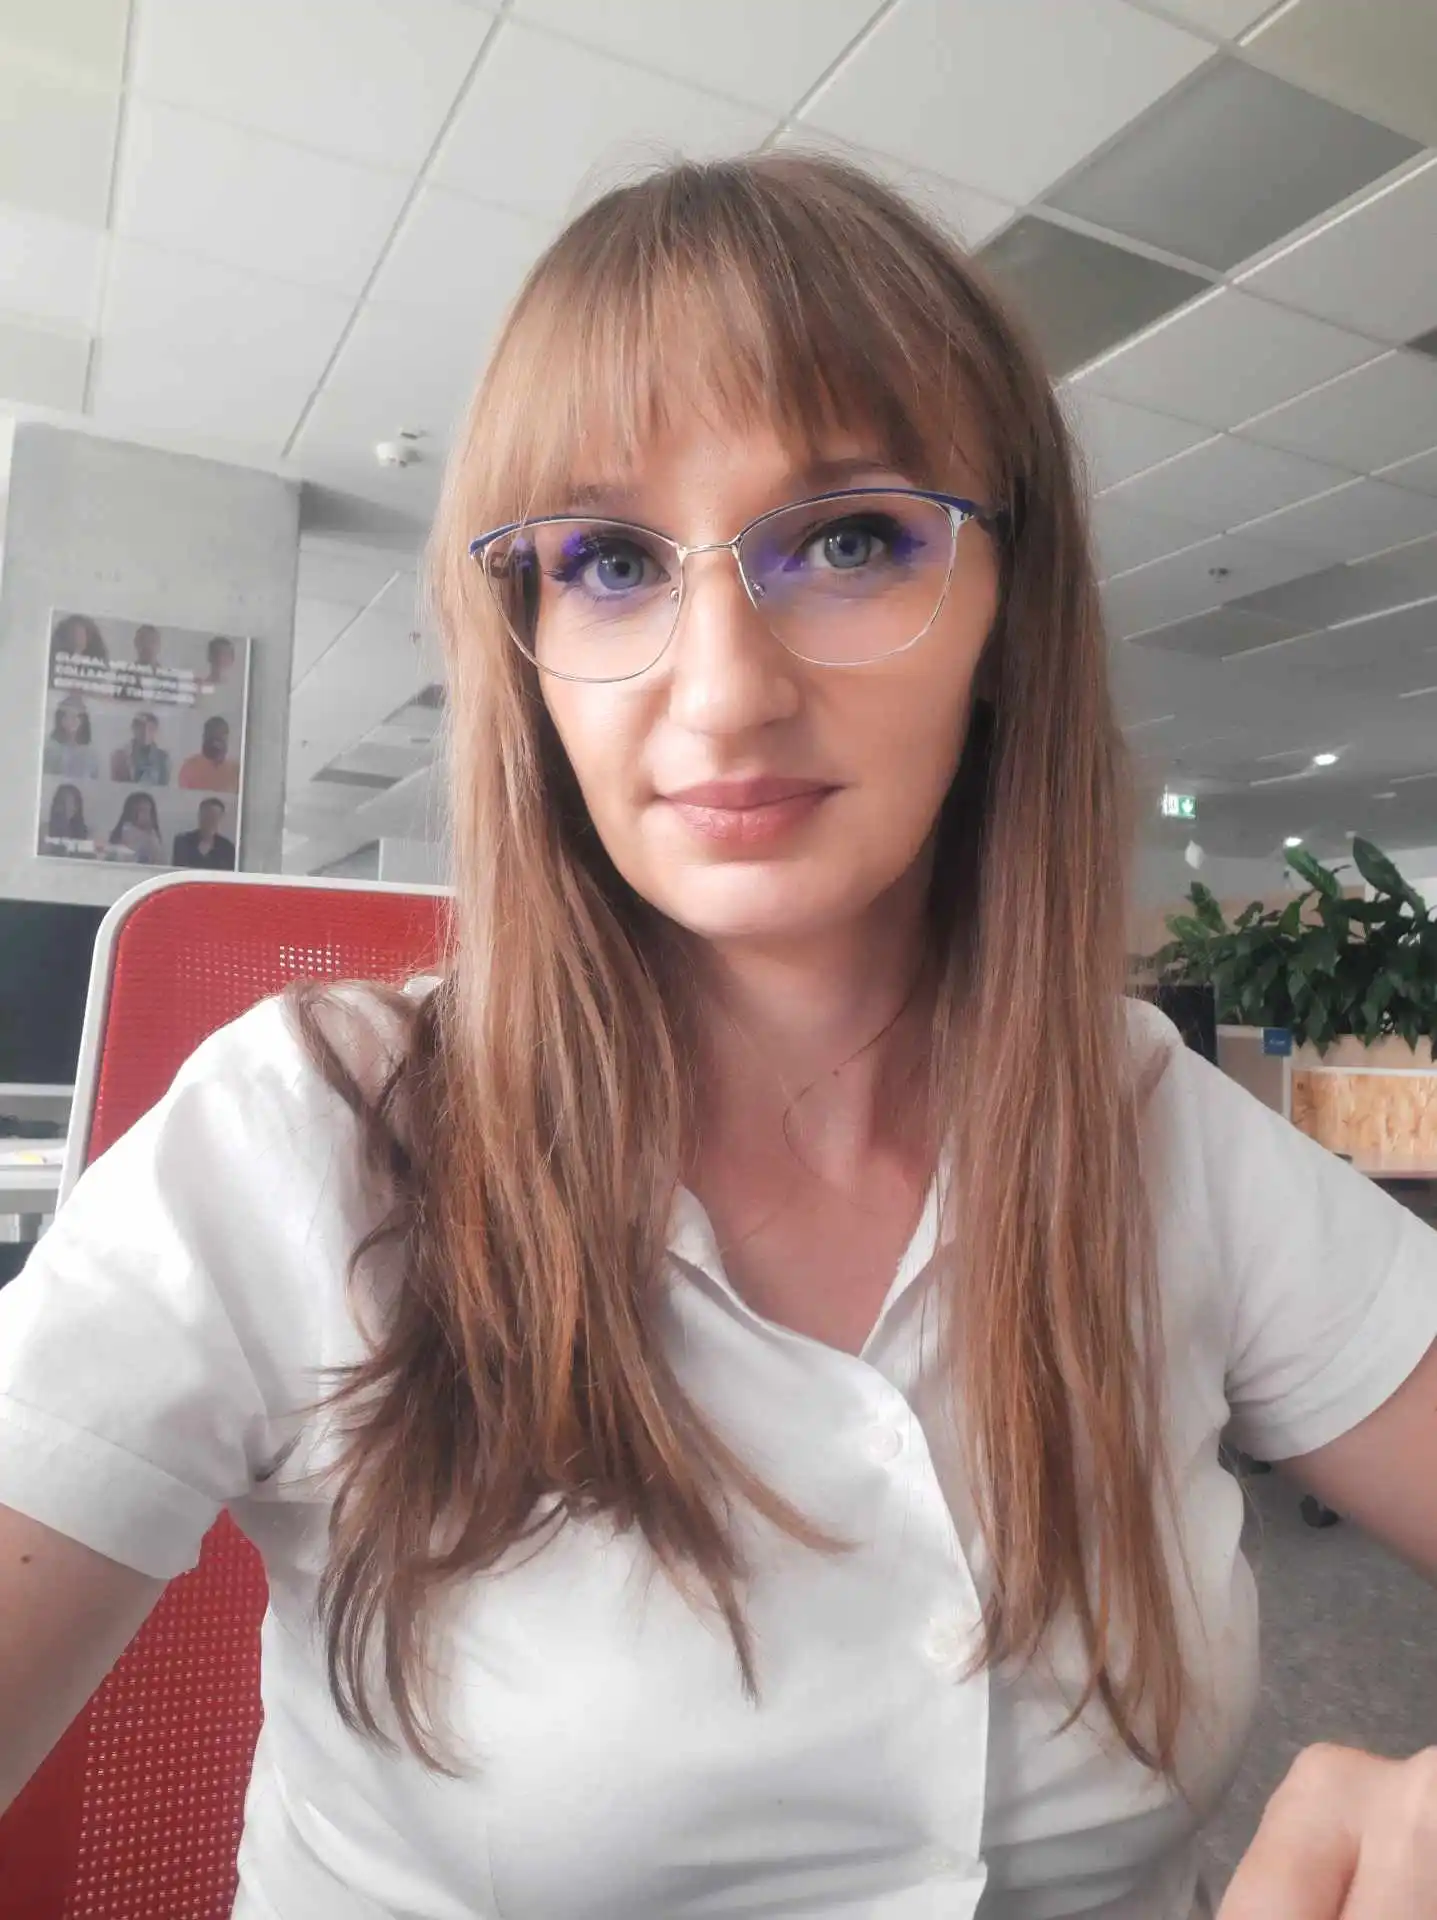
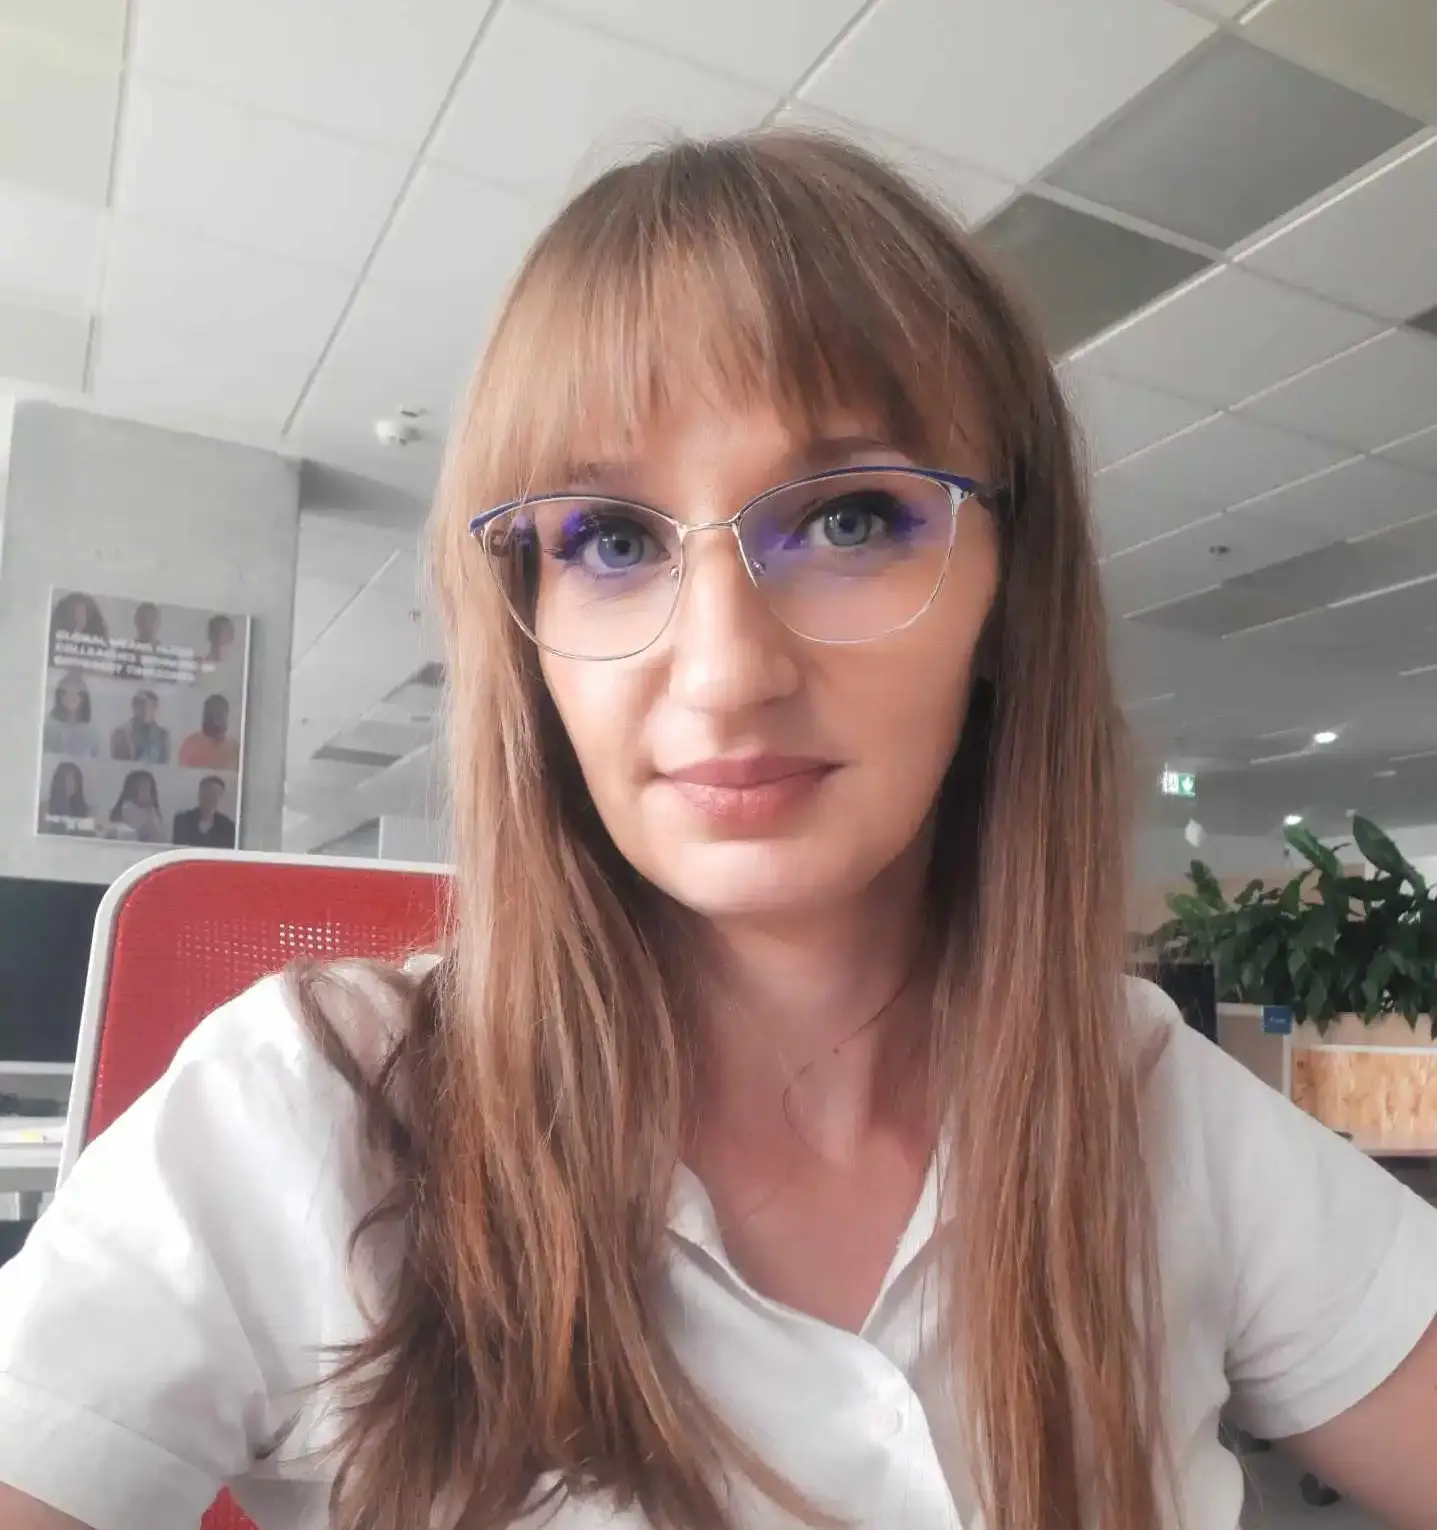
Images fixed for some volunteers / changed teamRooster to listaEchipe / added missing link

diff --git a/teams.js b/teams.js
@@ -2,8 +2,8 @@ const teamNavigation = document.querySelector("#team-navbar");
 const membersWrapper = document.querySelector("#team-wrapper");
 
 let teamMembers = []; // Vector gol pentru datele din json
-let preferredTeam = sessionStorage.getItem('preferredTeam'); // pentru cand navigarea se face dinspre pagina Detalii
-let hasActiveBtn = false; 
+let preferredTeam = sessionStorage.getItem("preferredTeam"); // pentru cand navigarea se face dinspre pagina Detalii
+let hasActiveBtn = false;
 
 // Functie de fetch pentru datele din json
 function loadTeamMembers() {
@@ -35,7 +35,7 @@ function initializeTeams() {
 
     if (!firstButton) firstButton = button;
     button.addEventListener("click", () => {
-      window.location.href = "#teamRooster"; // Redirectionare spre începutul sectiunii de afisare a echipei
+      window.location.href = "#listaEchipe"; // Redirectionare spre începutul sectiunii de afisare a echipei
     });
 
     // Event listener pentru selectarea echipei
@@ -54,17 +54,17 @@ function initializeTeams() {
     teamNavigation.appendChild(button);
 
     //cand navigam dinspre pagina Detalii vrem ca butonul selectat sa corespunda echipei potrivite
-    //verificam daca echipa transmisa dinspre pag Detalii are corespondent in echipele din teamRooster
-    if(preferredTeam === team){
+    //verificam daca echipa transmisa dinspre pag Detalii are corespondent in echipele din listaEchipe
+    if (preferredTeam === team) {
       button.classList.add("active");
       hasActiveBtn = true;
       displayTeamMembers(team);
-    } 
+    }
   }
 
-  // Setarea primului buton generat ca fiind activ, standard membrii "Principali" 
+  // Setarea primului buton generat ca fiind activ, standard membrii "Principali"
   // daca nu avem deja o echipa 'preferata' - cand navigam dinspre pag Detalii
-  if((!preferredTeam || !hasActiveBtn) && firstButton){
+  if ((!preferredTeam || !hasActiveBtn) && firstButton) {
     firstButton.classList.add("active");
     // Apelarea functiei de afisare a membrilor echipei selectate, în functie de butonul activat
     displayTeamMembers(firstButton.textContent);

diff --git a/details.js b/details.js
@@ -1,5 +1,5 @@
-const goToTeamBtns = document.getElementsByClassName('go-to-team-btn');
-let preferredTeam; 
+const goToTeamBtns = document.getElementsByClassName("go-to-team-btn");
+let preferredTeam;
 
 document.addEventListener("DOMContentLoaded", () => {
   const urlParams = new URLSearchParams(window.location.search);
@@ -10,7 +10,7 @@ document.addEventListener("DOMContentLoaded", () => {
     .then((data) => {
       const job = data.find((job) => job.id === jobId);
       if (job) {
-        preferredTeam = job.team; 
+        preferredTeam = job.team;
         document.querySelector(".title").textContent = job.title;
         document.querySelector(".employer").textContent += job.employer;
         document.querySelector(".departament").textContent += job.department;
@@ -55,8 +55,9 @@ document.addEventListener("DOMContentLoaded", () => {
         document.querySelector(".contact__role").textContent =
           job.aboutEmployer.title;
         document.getElementById("phone").textContent += job.aboutEmployer.phone;
-        document.getElementById("email").innerHTML +=
-          `<a href="mailto:${job.aboutEmployer.email}">${job.aboutEmployer.email}</a>`;
+        document.getElementById(
+          "email"
+        ).innerHTML += `<a href="mailto:${job.aboutEmployer.email}">${job.aboutEmployer.email}</a>`;
         document.getElementById("address").textContent +=
           job.aboutEmployer.address;
       }
@@ -69,8 +70,8 @@ document.addEventListener("DOMContentLoaded", () => {
     });
 });
 
-for(let i=0; i< goToTeamBtns.length; i++){
-  goToTeamBtns[i].addEventListener('click', goToTeam); 
+for (let i = 0; i < goToTeamBtns.length; i++) {
+  goToTeamBtns[i].addEventListener("click", goToTeam);
 }
 
 function checkPath(data, idKey = "id") {
@@ -93,6 +94,6 @@ function checkPath(data, idKey = "id") {
 }
 
 function goToTeam() {
-  sessionStorage.setItem('preferredTeam', preferredTeam); 
-  window.location.href = '/index.html#teamRooster'; 
+  sessionStorage.setItem("preferredTeam", preferredTeam);
+  window.location.href = "/index.html#listaEchipe";
 }

diff --git a/script_404.js b/script_404.js
@@ -1,4 +1,4 @@
-const redirectBtn = document.getElementById("redirect-btn")
+const redirectBtn = document.getElementById("redirect-btn");
 
 // Object to store routes
 const routes = {
@@ -6,9 +6,9 @@ const routes = {
   "our-mission": "ourMission",
   "how-contribute": "howContribute",
   "why-contribute": "whyContribute",
-  teamRooster: "team-rooster",
+  listaEchipe: "team-rooster",
   team: "team",
-  "schedule": "schedule"
+  schedule: "schedule",
 };
 
 // Load content based on the current hash
@@ -19,14 +19,14 @@ function loadContent() {
   if (!page) {
     window.location.href = "404.html";
   }
-  
-  if(path){
+
+  if (path) {
     //setTimeout - să aiba timp să se încarce conținutul generat dinamic de pe index.html
-    setTimeout( ()=>{
+    setTimeout(() => {
       const targetElement = document.querySelector(`#${path}`);
       // Scroll to the target element
-      targetElement.scrollIntoView({ behavior: 'smooth' });
-    }, 300)
+      targetElement.scrollIntoView({ behavior: "smooth" });
+    }, 300);
   }
 }
 
@@ -35,7 +35,6 @@ window.addEventListener("load", loadContent);
 
 // Update content when the hash changes
 window.addEventListener("hashchange", loadContent);
-
 
 function redirectToHome() {
   window.location.href = "index.html";

diff --git a/index.html b/index.html
@@ -528,15 +528,16 @@
           </div>
         </div>
 
-        <div class="team__banner" id="teamRooster">
+        <div class="team__banner" id="listaEchipe">
           <p class="">Voluntari</p>
           <img src="./assets/banner.svg" alt="" class="banner-core" />
         </div>
 
         <p class="team__description">
-          Iată echipele care, prin dedicarea și implicarea lor, transformă acest vis în realitate. 
-          Fiecare contribuie într-un mod unic și, cu un efort coordonat și o pasiune comună, 
-          aceste echipe arată ce înseamnă să colaborezi pentru un scop mai mare.
+          Iată echipele care, prin dedicarea și implicarea lor, transformă acest
+          vis în realitate. Fiecare contribuie într-un mod unic și, cu un efort
+          coordonat și o pasiune comună, aceste echipe arată ce înseamnă să
+          colaborezi pentru un scop mai mare.
         </p>
 
         <div class="team__members-wrapper">
